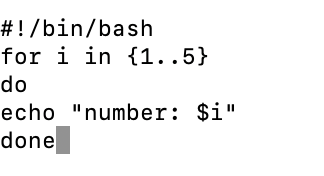
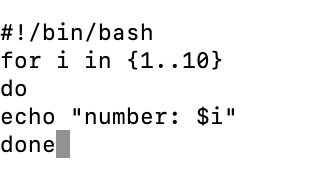
hii

diff --git a/Lab/assignment/Lab 3-Modify an existing script.md b/Lab/assignment/Lab 3-Modify an existing script.md
@@ -1,0 +1,92 @@
+# ✅ Script: enhanced_numbers.sh
+
+![images](./images/j1.png)
+
+### Make it executable:
+
+![images](./images/j2.png)
+
+### Example Run
+![images](./images/k2.png)
+
+## Modified Script ( enhanced_numbers.sh )
+### Purpose: 
+
+.Print numbers with user-defined start, end, and step.
+
+•  Input: User enters values at runtime.
+•  Validation:
+•  Step must be a positive integer.
+•  Inputs must be integers.
+•  Output: Prints sequence based on user choices.
+
+### Example Runs
+
+Example1
+![images](./images/j3.png)
+
+Example2
+![images](./images/j4.png)
+
+ques1- "Difference between $1, $@, and $# in bash?"
+
+🔹 1. $1
+Refers to the first positional argument passed to the script or function.
+
+Similarly, $2 is the second, $3 is the third, and so on.
+
+Example:
+
+#!/bin/bash
+echo "First argument: $1"
+Run:
+
+$ ./script.sh apple banana cherry
+First argument: apple
+
+🔹 2. $@
+Represents all the positional arguments as a list.
+
+Each argument is treated as a separate word (preserves spaces if quoted).
+
+Example:
+
+#!/bin/bash
+echo "All arguments: $@"
+Run:
+
+$ ./script.sh apple banana cherry
+
+All arguments: apple banana cherry
+
+If arguments have spaces:
+
+$ ./script.sh "red apple" banana
+
+All arguments: red apple banana
+
+🔹 3. $#
+Represents the number of positional arguments passed to the script.
+
+Example:
+
+#!/bin/bash
+echo "Number of arguments: $#"
+Run:
+
+$ ./script.sh apple banana cherry
+Numbers of arguments: 3
+
+ques2-"What does exit 1 mean in a script?"
+
+".
+
+🔹 exit 1 Meaning
+exit 1 ends the script and returns status code 1.
+
+By convention:
+
+exit 0 → Success (everything worked as expected).
+
+exit 1 (or any non-zero number) → Error / Failure (something went wrong)."
+

diff --git a/Lab/assignment/Lab 2 script execution.md b/Lab/assignment/Lab 2 script execution.md
@@ -10,7 +10,7 @@
 
 2.# script to print numbers from 1 to 5 - A comment describing the script.
 
-3.for i in {1..5} - Loop from 1 through 5,assigning each value to variable i.
+3.for i in {1..10} - Loop from 1 through 5,assigning each value to variable i.
 
 4.do - Marks the beginning of commands inside the loop.
 
@@ -46,4 +46,9 @@
 ### Example Run
 
 ![images](./images/a2.png)
+
+ques1-How do you make a script executable?
+
+chmod +x enhanced_numbers.sh
+
 
